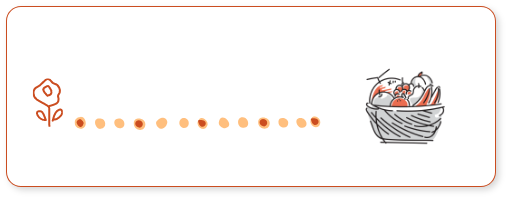
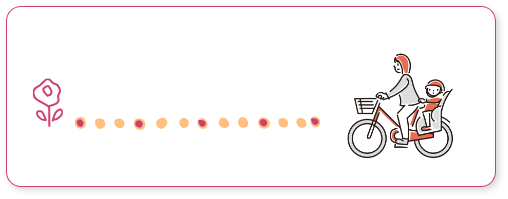
fix：スライダーコンテンツがあるページ修正
テキスト追加、画像差し替え、css修正

diff --git a/top-login.html b/top-login.html
@@ -429,7 +429,8 @@
             </article>
 
             <article class="connection">
-                <h2 class="connection__sub-title">中野区の子育て支援情報</h2>
+                <h2 class="connection__sub-title">墨田区の子育て支援情報</h2>
+                <p class="connection__text">墨田区はお子さまの健やかな成長を願って、さまざまな形で皆さまの子育てを応援しています。</p>
                 <div class="connection-image">
                     <div class="connection-box">
                         <figure class="connection-item"><a href="https://www.city.tokyo-nakano.lg.jp/kosodate/kosodatesite_ohirune/mokuteki/kenshin/hanokenko/kodomonoha.html" target="_blank"><img src="assets/img/connection1.png" alt="子どもの歯のおはなし"></a>

diff --git a/assets/css/style.css b/assets/css/style.css
@@ -902,7 +902,12 @@ figure img{
   font-size: 36px;
   font-size: 3.6rem;
 }
-.connection__sub-title::after {
+.connection__text {
+  text-align: center;
+  font-size: 1.6rem;
+  margin: 12px 0 40px;
+}
+/* .connection__sub-title::after {
   content: "";
   width: 40px;
   height: 40px;
@@ -910,7 +915,7 @@ figure img{
   background-image: url(../img/connection_icon.png);
   background-repeat: no-repeat;
   margin-left: 10px;
-}
+} */
 
 .connection-box {
   display: flex;
@@ -5069,5 +5074,8 @@ div#undercolumn_entry .message {
   }
   .inner__wrapper {
     height: auto;
+  }
+  .connection__text {
+    display: none;
   }
 }
